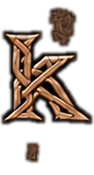
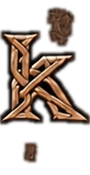
Re-extract clean n glyph and eliminate intra-word kerning gaps

diff --git a/index.html b/index.html
@@ -612,11 +612,22 @@ footer *, .footer *, #footer *, .credits *, #credits * {
   height: 24px !important;
   transform: translateY(2px) !important;
 }
+
+.kt-word .kt-glyph,
+.kt-word .kt-glyph.kt-cap,
+.kt-word .kt-glyph.kt-asc,
+.kt-word .kt-glyph.kt-desc {
+  margin: 0 -0.5px !important;
+  padding: 0 !important;
+}
+.kt-line {
+  gap: 14px !important;
+}
 </style>
 </head>
 <body>
 <div id="root">
-  <div class="title"><div class="kt-line"><span class="kt-word"><img class="kt-glyph kt-cap kt-desc" src="title_glyphs/g.png?v=7" alt="G"><img class="kt-glyph kt-desc" src="title_glyphs/j.png?v=7" alt="j"><img class="kt-glyph" src="title_glyphs/a.png?v=7" alt="a"><img class="kt-glyph kt-asc" src="title_glyphs/k.png?v=7" alt="k"><img class="kt-glyph kt-asc" src="title_glyphs/k.png?v=7" alt="k"><img class="kt-glyph" src="title_glyphs/r.png?v=7" alt="r"></span><span class="kt-word"><img class="kt-glyph kt-cap" src="title_glyphs/d.png?v=7" alt="D"><img class="kt-glyph" src="title_glyphs/a.png?v=7" alt="a"><img class="kt-glyph kt-desc" src="title_glyphs/g.png?v=7" alt="g"><img class="kt-glyph" src="title_glyphs/n.png?v=7" alt="n"><img class="kt-glyph kt-desc kt-asc" src="title_glyphs/y_acute.png?v=7" alt="ý"><img class="kt-glyph kt-desc" src="title_glyphs/j.png?v=7" alt="j"><img class="kt-glyph" src="title_glyphs/a.png?v=7" alt="a"><img class="kt-glyph" src="title_glyphs/r.png?v=7" alt="r"><img class="kt-glyph" src="title_glyphs/s.png?v=7" alt="s"><img class="kt-glyph" src="title_glyphs/o.png?v=7" alt="o"><img class="kt-glyph" src="title_glyphs/n.png?v=7" alt="n"><span class="kt-apos">’</span><img class="kt-glyph" src="title_glyphs/s.png?v=7" alt="s"></span></div><div class="kt-line"><span class="kt-word"><img class="kt-glyph kt-cap" src="title_glyphs/o.png?v=7" alt="O"><img class="kt-glyph kt-asc" src="title_glyphs/l.png?v=7" alt="l"><img class="kt-glyph kt-asc" src="title_glyphs/d.png?v=7" alt="d"></span><span class="kt-word"><img class="kt-glyph kt-cap" src="title_glyphs/n.png?v=7" alt="N"><img class="kt-glyph" src="title_glyphs/o.png?v=7" alt="o"><img class="kt-glyph" src="title_glyphs/r.png?v=7" alt="r"><img class="kt-glyph" src="title_glyphs/s.png?v=7" alt="s"><img class="kt-glyph" src="title_glyphs/e.png?v=7" alt="e"></span><span class="kt-word"><img class="kt-glyph kt-cap" src="title_glyphs/d.png?v=7" alt="D"><img class="kt-glyph" src="title_glyphs/i.png?v=7" alt="i"><img class="kt-glyph" src="title_glyphs/c.png?v=7" alt="c"><img class="kt-glyph kt-asc" src="title_glyphs/t.png?v=7" alt="t"><img class="kt-glyph" src="title_glyphs/i.png?v=7" alt="i"><img class="kt-glyph" src="title_glyphs/o.png?v=7" alt="o"><img class="kt-glyph" src="title_glyphs/n.png?v=7" alt="n"><img class="kt-glyph" src="title_glyphs/a.png?v=7" alt="a"><img class="kt-glyph" src="title_glyphs/r.png?v=7" alt="r"><img class="kt-glyph kt-desc" src="title_glyphs/y.png?v=7" alt="y"></span></div></div>
+  <div class="title"><div class="kt-line"><span class="kt-word"><img class="kt-glyph kt-cap kt-desc" src="title_glyphs/g.png?v=8" alt="G"><img class="kt-glyph kt-desc" src="title_glyphs/j.png?v=8" alt="j"><img class="kt-glyph" src="title_glyphs/a.png?v=8" alt="a"><img class="kt-glyph kt-asc" src="title_glyphs/k.png?v=8" alt="k"><img class="kt-glyph kt-asc" src="title_glyphs/k.png?v=8" alt="k"><img class="kt-glyph" src="title_glyphs/r.png?v=8" alt="r"></span><span class="kt-word"><img class="kt-glyph kt-cap" src="title_glyphs/d.png?v=8" alt="D"><img class="kt-glyph" src="title_glyphs/a.png?v=8" alt="a"><img class="kt-glyph kt-desc" src="title_glyphs/g.png?v=8" alt="g"><img class="kt-glyph" src="title_glyphs/n.png?v=8" alt="n"><img class="kt-glyph kt-desc kt-asc" src="title_glyphs/y_acute.png?v=8" alt="ý"><img class="kt-glyph kt-desc" src="title_glyphs/j.png?v=8" alt="j"><img class="kt-glyph" src="title_glyphs/a.png?v=8" alt="a"><img class="kt-glyph" src="title_glyphs/r.png?v=8" alt="r"><img class="kt-glyph" src="title_glyphs/s.png?v=8" alt="s"><img class="kt-glyph" src="title_glyphs/o.png?v=8" alt="o"><img class="kt-glyph" src="title_glyphs/n.png?v=8" alt="n"><span class="kt-apos">’</span><img class="kt-glyph" src="title_glyphs/s.png?v=8" alt="s"></span></div><div class="kt-line"><span class="kt-word"><img class="kt-glyph kt-cap" src="title_glyphs/o.png?v=8" alt="O"><img class="kt-glyph kt-asc" src="title_glyphs/l.png?v=8" alt="l"><img class="kt-glyph kt-asc" src="title_glyphs/d.png?v=8" alt="d"></span><span class="kt-word"><img class="kt-glyph kt-cap" src="title_glyphs/n.png?v=8" alt="N"><img class="kt-glyph" src="title_glyphs/o.png?v=8" alt="o"><img class="kt-glyph" src="title_glyphs/r.png?v=8" alt="r"><img class="kt-glyph" src="title_glyphs/s.png?v=8" alt="s"><img class="kt-glyph" src="title_glyphs/e.png?v=8" alt="e"></span><span class="kt-word"><img class="kt-glyph kt-cap" src="title_glyphs/d.png?v=8" alt="D"><img class="kt-glyph" src="title_glyphs/i.png?v=8" alt="i"><img class="kt-glyph" src="title_glyphs/c.png?v=8" alt="c"><img class="kt-glyph kt-asc" src="title_glyphs/t.png?v=8" alt="t"><img class="kt-glyph" src="title_glyphs/i.png?v=8" alt="i"><img class="kt-glyph" src="title_glyphs/o.png?v=8" alt="o"><img class="kt-glyph" src="title_glyphs/n.png?v=8" alt="n"><img class="kt-glyph" src="title_glyphs/a.png?v=8" alt="a"><img class="kt-glyph" src="title_glyphs/r.png?v=8" alt="r"><img class="kt-glyph kt-desc" src="title_glyphs/y.png?v=8" alt="y"></span></div></div>
   <div class="top-bar">
     <button id="homeBtn" class="nav-btn" style="display:none">Home</button>
     <input id="searchBox" type="search" placeholder="Search Old Norse..." autocomplete="off" />
